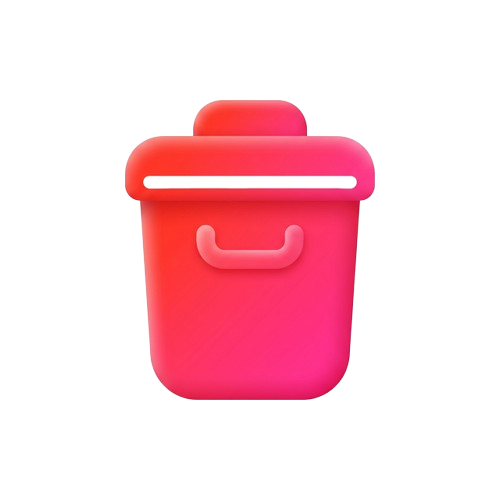
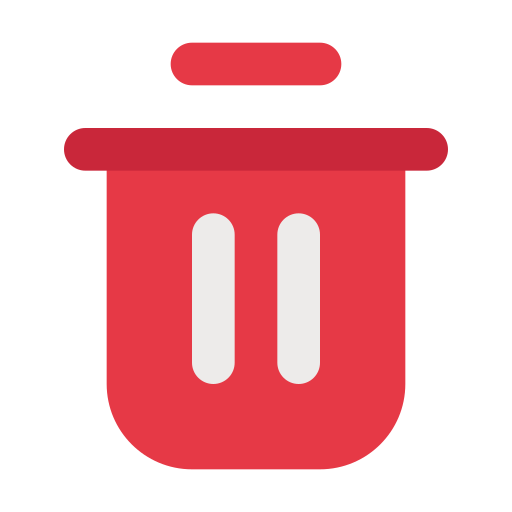
Updated UIs and tested all functionalities, still cant open camera since the link is not https

diff --git a/wwwroot/app.js b/wwwroot/app.js
@@ -238,17 +238,20 @@ function renderProducts() {
         card.className = 'product-card';
         card.onclick = () => addToCart(p);
         
-        // Priority: Item Image -> Category Icon/Emoji -> Default Box
-        let displayContent = p.image;
-        
-        // If image is a path but looks broken or is empty, use Category Icon
-        if (!displayContent || (displayContent.length > 5 && displayContent.includes('/'))) {
-            displayContent = p.categoryImage || '📦';
-        }
-        
-        // Final safety: if we still have a long path string, use the box
-        if (displayContent.length > 5 && displayContent.includes('/')) {
-            displayContent = '📦';
+        // Priority: Item Image -> Category Icon -> Default Box
+        let displayContent = '';
+        const itemImage = p.image;
+        const catImage = p.categoryImage;
+
+        if (itemImage && itemImage.length > 5 && itemImage.includes('/')) {
+            // It's a path to a product image
+            displayContent = `<img src="${itemImage}" class="cat-icon-img" alt="${p.name}">`;
+        } else if (catImage && catImage.length > 5 && catImage.includes('/')) {
+            // It's a path to a category icon
+            displayContent = `<img src="${catImage}" class="cat-icon-img" alt="${p.category}">`;
+        } else {
+            // Fallback to emoji or default box
+            displayContent = `<span class="emoji-icon">${itemImage || '📦'}</span>`;
         }
 
         card.innerHTML = `
@@ -411,7 +414,8 @@ function checkLoginState() {
     localStorage.removeItem('pos_loggedIn');
     document.getElementById('loginScreen').classList.remove('hidden');
     // Hide header on login page
-    document.querySelector('.top-nav')?.classList.add('hidden');
+    const topNav = document.querySelector('.top-nav');
+    if (topNav) topNav.style.display = 'none';
 }
 
 async function handleLogin() {
@@ -432,7 +436,8 @@ async function handleLogin() {
             localStorage.setItem('pos_user', data.fullName);
             document.getElementById('loginScreen').classList.add('hidden');
             // Show header after successful login
-            document.querySelector('.top-nav')?.classList.remove('hidden');
+            const topNav = document.querySelector('.top-nav');
+            if (topNav) topNav.style.display = 'flex';
             showToast(`Logged in as ${data.fullName}`, "success");
             globalBarcodeScanner.init(); // Activate scanner immediately on login
             initApp();
@@ -645,11 +650,38 @@ const barcodeScannerManager = {
     currentFacingMode: "environment",
     async start(target = 'search') {
         this.target = target;
+        
+        // Explicitly request permissions first to provide better UX
+        try {
+            const stream = await navigator.mediaDevices.getUserMedia({ video: true });
+            stream.getTracks().forEach(track => track.stop()); // Stop immediately, just checking permission
+        } catch (err) {
+            console.error("Camera permission denied", err);
+            showToast("Camera access denied. Please enable it in browser settings.", "error");
+            return;
+        }
+
         document.getElementById('cameraScannerModal').classList.remove('hidden');
         if (!this.scanner) this.scanner = new Html5Qrcode("reader");
+        
         try {
-            await this.scanner.start({ facingMode: this.currentFacingMode }, { fps: 24, qrbox: (w, h) => { const s = Math.min(w, h) * 0.65; return { width: s, height: s }; } }, (t) => this.onScanSuccess(t), () => {});
-        } catch (err) { showToast("Camera error", "error"); }
+            await this.scanner.start(
+                { facingMode: this.currentFacingMode }, 
+                { 
+                    fps: 24, 
+                    qrbox: (w, h) => { 
+                        const s = Math.min(w, h) * 0.65; 
+                        return { width: s, height: s }; 
+                    } 
+                }, 
+                (t) => this.onScanSuccess(t), 
+                () => {}
+            );
+        } catch (err) { 
+            console.error("Scanner start error", err);
+            showToast("Failed to start camera. It might be in use.", "error"); 
+            document.getElementById('cameraScannerModal').classList.add('hidden');
+        }
     },
     async stop() { 
         if (this.scanner && this.scanner.isScanning) { 

diff --git a/wwwroot/index.css b/wwwroot/index.css
@@ -284,10 +284,20 @@ body {
     display: flex; 
     align-items: center; 
     justify-content: center; 
-    font-size: 2.2rem; 
     margin-bottom: 15px; 
     overflow: hidden;
-    text-overflow: ellipsis;
+    padding: 10px;
+}
+
+.cat-icon-img {
+    max-width: 100%;
+    max-height: 100%;
+    object-fit: contain;
+    filter: drop-shadow(0 4px 8px rgba(0,0,0,0.2));
+}
+
+.emoji-icon {
+    font-size: 2.2rem;
 }
 
 .product-name { font-weight: 800; font-size: 1rem; margin-bottom: 4px; color: white; }

diff --git a/Program.cs b/Program.cs
@@ -6,6 +6,7 @@ using System.Windows.Forms;
 using Microsoft.AspNetCore.Builder;
 using Microsoft.AspNetCore.Hosting;
 using Microsoft.Extensions.DependencyInjection;
+using Microsoft.Extensions.Hosting;
 using GenericInventorySystem.Services;
 using GenericInventorySystem.Helpers;
 
@@ -112,14 +113,38 @@ namespace GenericInventorySystem
                 builder.Services.AddSignalR();
 
                 var app = builder.Build();
+                
+                // --- Discovery Logic ---
+                string localIp = "localhost";
+                try {
+                    var host = System.Net.Dns.GetHostEntry(System.Net.Dns.GetHostName());
+                    localIp = host.AddressList.FirstOrDefault(ip => ip.AddressFamily == System.Net.Sockets.AddressFamily.InterNetwork)?.ToString() ?? "localhost";
+                } catch { }
 
                 // Register HubContext so WinForms can broadcast events
                 InventoryBroadcaster.HubContext = app.Services
                     .GetRequiredService<Microsoft.AspNetCore.SignalR.IHubContext<InventoryHub>>();
 
                 app.UseCors();
-                app.UseDefaultFiles(); // Add this line
+                
+                // Camera requires HTTPS OR the Chrome Flag (chrome://flags/#unsafely-treat-insecure-origin-as-secure)
+                // We'll allow both HTTP and HTTPS to co-exist for easier access
+                // if (!builder.Environment.IsDevelopment()) { app.UseHsts(); }
+                // app.UseHttpsRedirection();
+
+                app.UseDefaultFiles();
                 app.UseStaticFiles();
+                
+                // Serve desktop assets to the web portal
+                string assetsPath = System.IO.Path.Combine(builder.Environment.ContentRootPath, "Assets");
+                if (System.IO.Directory.Exists(assetsPath))
+                {
+                    app.UseStaticFiles(new Microsoft.AspNetCore.Builder.StaticFileOptions
+                    {
+                        FileProvider = new Microsoft.Extensions.FileProviders.PhysicalFileProvider(assetsPath),
+                        RequestPath = "/Assets"
+                    });
+                }
 
                 // - SignalR Hub endpoint -
                 app.MapHub<InventoryHub>("/hubs/inventory");
@@ -145,6 +170,58 @@ namespace GenericInventorySystem
                         var products = new System.Collections.Generic.List<object>();
                         foreach (System.Data.DataRow row in dt.Rows)
                         {
+                            string partImage = row["part_image"].ToString();
+                            string catImage = row["category_image"].ToString();
+                            string category = row["category"].ToString();
+
+                            // Fully dynamic category icon resolution
+                            if (string.IsNullOrEmpty(catImage))
+                            {
+                                string cleanCat = category.ToLower().Trim();
+                                
+                                // Try finding a matching icon (SVG preferred, then PNG)
+                                string[] extensions = { ".svg", ".png" };
+                                bool found = false;
+                                
+                                foreach(var ext in extensions)
+                                {
+                                    string iconFile = $"nuricon_{cleanCat}{ext}";
+                                    if (System.IO.File.Exists(System.IO.Path.Combine(assetsPath, iconFile)))
+                                    {
+                                        catImage = "/Assets/" + iconFile;
+                                        found = true;
+                                        break;
+                                    }
+                                }
+
+                                if (!found)
+                                {
+                                    // Fallback to specific keywords based on actual file existence
+                                    if (cleanCat.Contains("service")) catImage = "/Assets/nuricon_pos.png";
+                                    else if (cleanCat.Contains("accessory")) catImage = "/Assets/nuricon_inventory.svg";
+                                    else if (cleanCat.Contains("engine")) catImage = "/Assets/nuricon_inventory.svg";
+                                    else if (cleanCat.Contains("brake")) catImage = "/Assets/nuricon_inventory.svg";
+                                    else catImage = "/Assets/nuricon_inventory.svg"; // Final default
+                                }
+                            }
+                            else
+                            {
+                                // Clean up catImage: prevent /Assets/Assets/ double prefix
+                                if (catImage.StartsWith("Assets/", StringComparison.OrdinalIgnoreCase))
+                                    catImage = "/" + catImage;
+                                else if (!catImage.StartsWith("/") && !catImage.StartsWith("http", StringComparison.OrdinalIgnoreCase))
+                                    catImage = "/Assets/" + catImage;
+                            }
+
+                            // Clean up partImage: prevent /Assets/Assets/ double prefix
+                            if (!string.IsNullOrEmpty(partImage))
+                            {
+                                if (partImage.StartsWith("Assets/", StringComparison.OrdinalIgnoreCase))
+                                    partImage = "/" + partImage;
+                                else if (!partImage.StartsWith("/") && !partImage.StartsWith("http", StringComparison.OrdinalIgnoreCase))
+                                    partImage = "/Assets/" + partImage;
+                            }
+
                             products.Add(new {
                                 id       = Convert.ToInt32(row["id"]),
                                 name     = row["part_name"].ToString(),
@@ -153,10 +230,10 @@ namespace GenericInventorySystem
                                 minStock = Convert.ToInt32(row["minimum_stock_level"]),
                                 barcode  = row["barcode"].ToString(),
                                 sku      = row["part_number"].ToString(),
-                                category = row["category"].ToString(),
-                                image    = row["part_image"].ToString(),
-                                categoryImage = row["category_image"].ToString(),
-                                isService = false
+                                category = category,
+                                image    = partImage,
+                                categoryImage = catImage,
+                                isService = category.Equals("Services", StringComparison.OrdinalIgnoreCase)
                             });
                         }
 

diff --git a/Forms/PartsForm.cs b/Forms/PartsForm.cs
@@ -277,8 +277,8 @@ namespace GenericInventorySystem.Forms
             // Define Columns
             dgvParts.Columns.Add(new DataGridViewCheckBoxColumn { Name = "colCheck", HeaderText = "", Width = 30, FillWeight = 1, ReadOnly = false }); // Active Checkbox
             
-            var colImage = new DataGridViewImageColumn { Name = "colImage", HeaderText = "Image", Width = 50, ImageLayout = DataGridViewImageCellLayout.Zoom, FillWeight = 6, ReadOnly = true };
-            colImage.DefaultCellStyle.Padding = new Padding(8); // Add padding for "Zoom" layout
+            var colImage = new DataGridViewImageColumn { Name = "colImage", HeaderText = "Image", Width = 60, ImageLayout = DataGridViewImageCellLayout.Zoom, FillWeight = 6, ReadOnly = true };
+            colImage.DefaultCellStyle.Padding = new Padding(12); // Add padding for "Zoom" layout
             dgvParts.Columns.Add(colImage);
             
             dgvParts.Columns.Add(new DataGridViewTextBoxColumn { Name = "colSKU", HeaderText = "SKU", DataPropertyName = "part_number", FillWeight = 10, ReadOnly = true });
